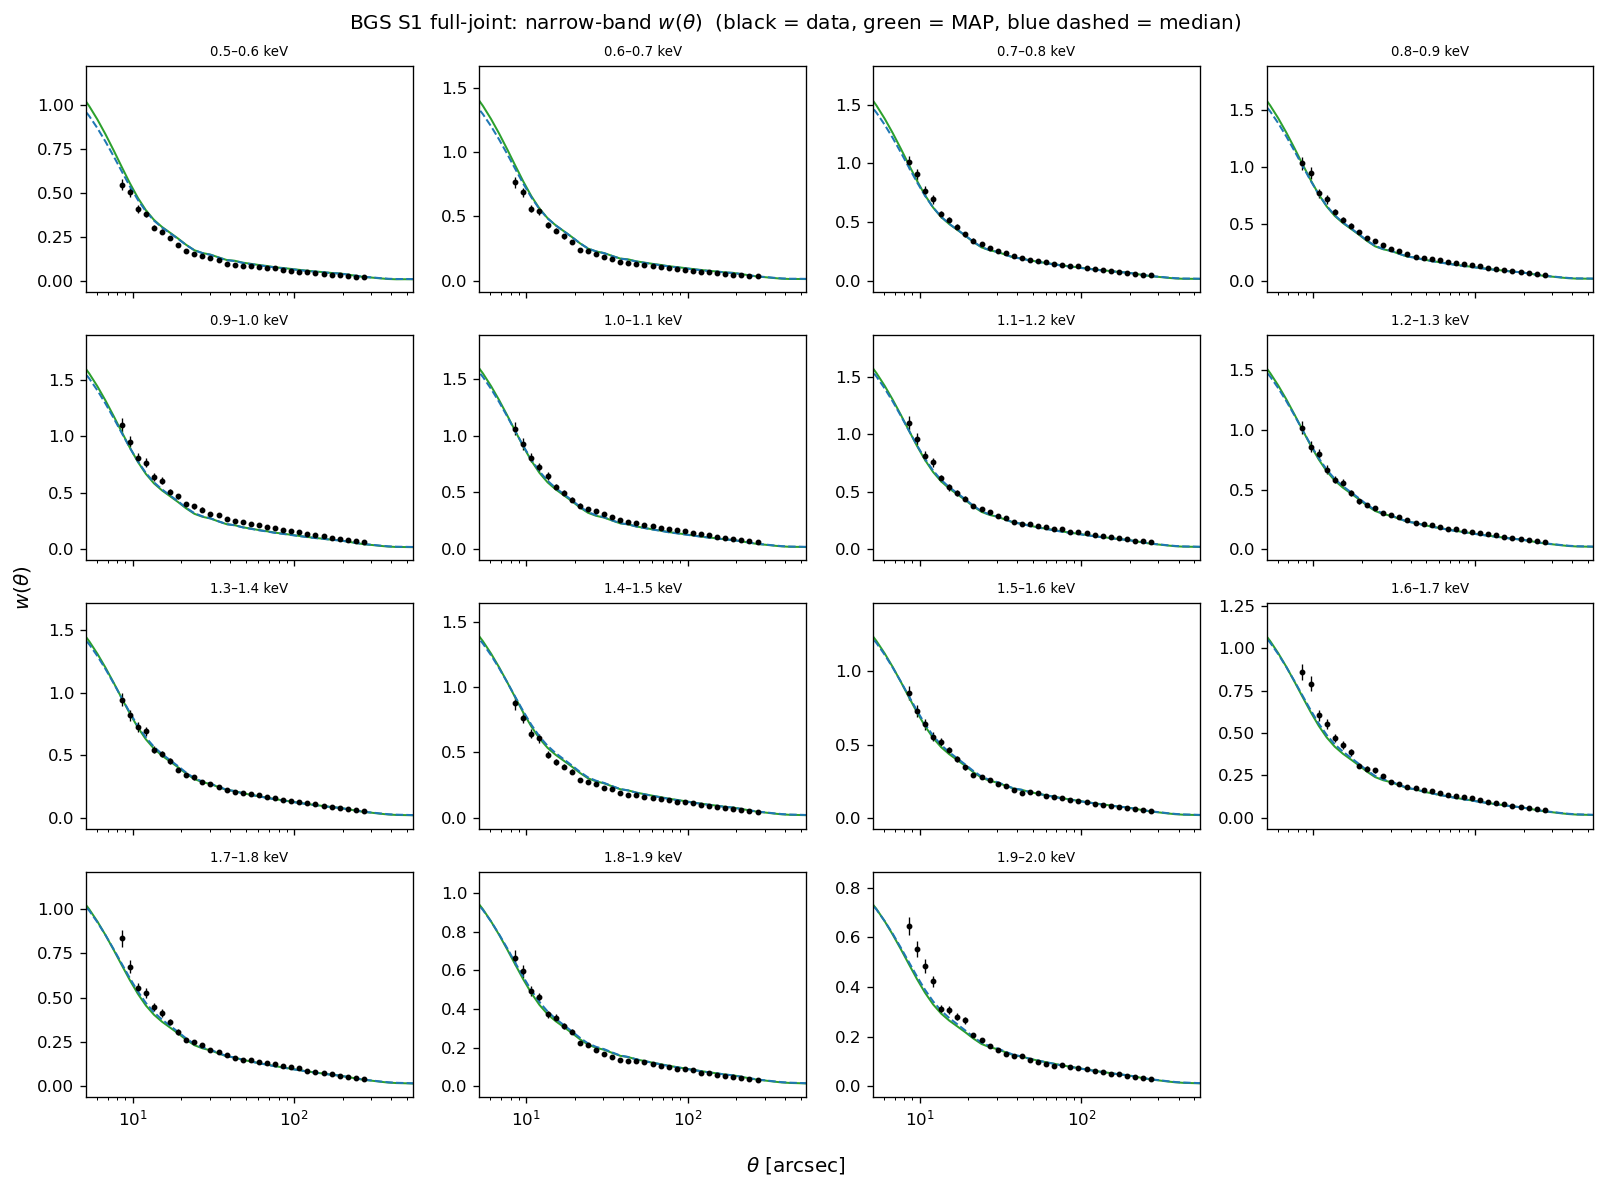
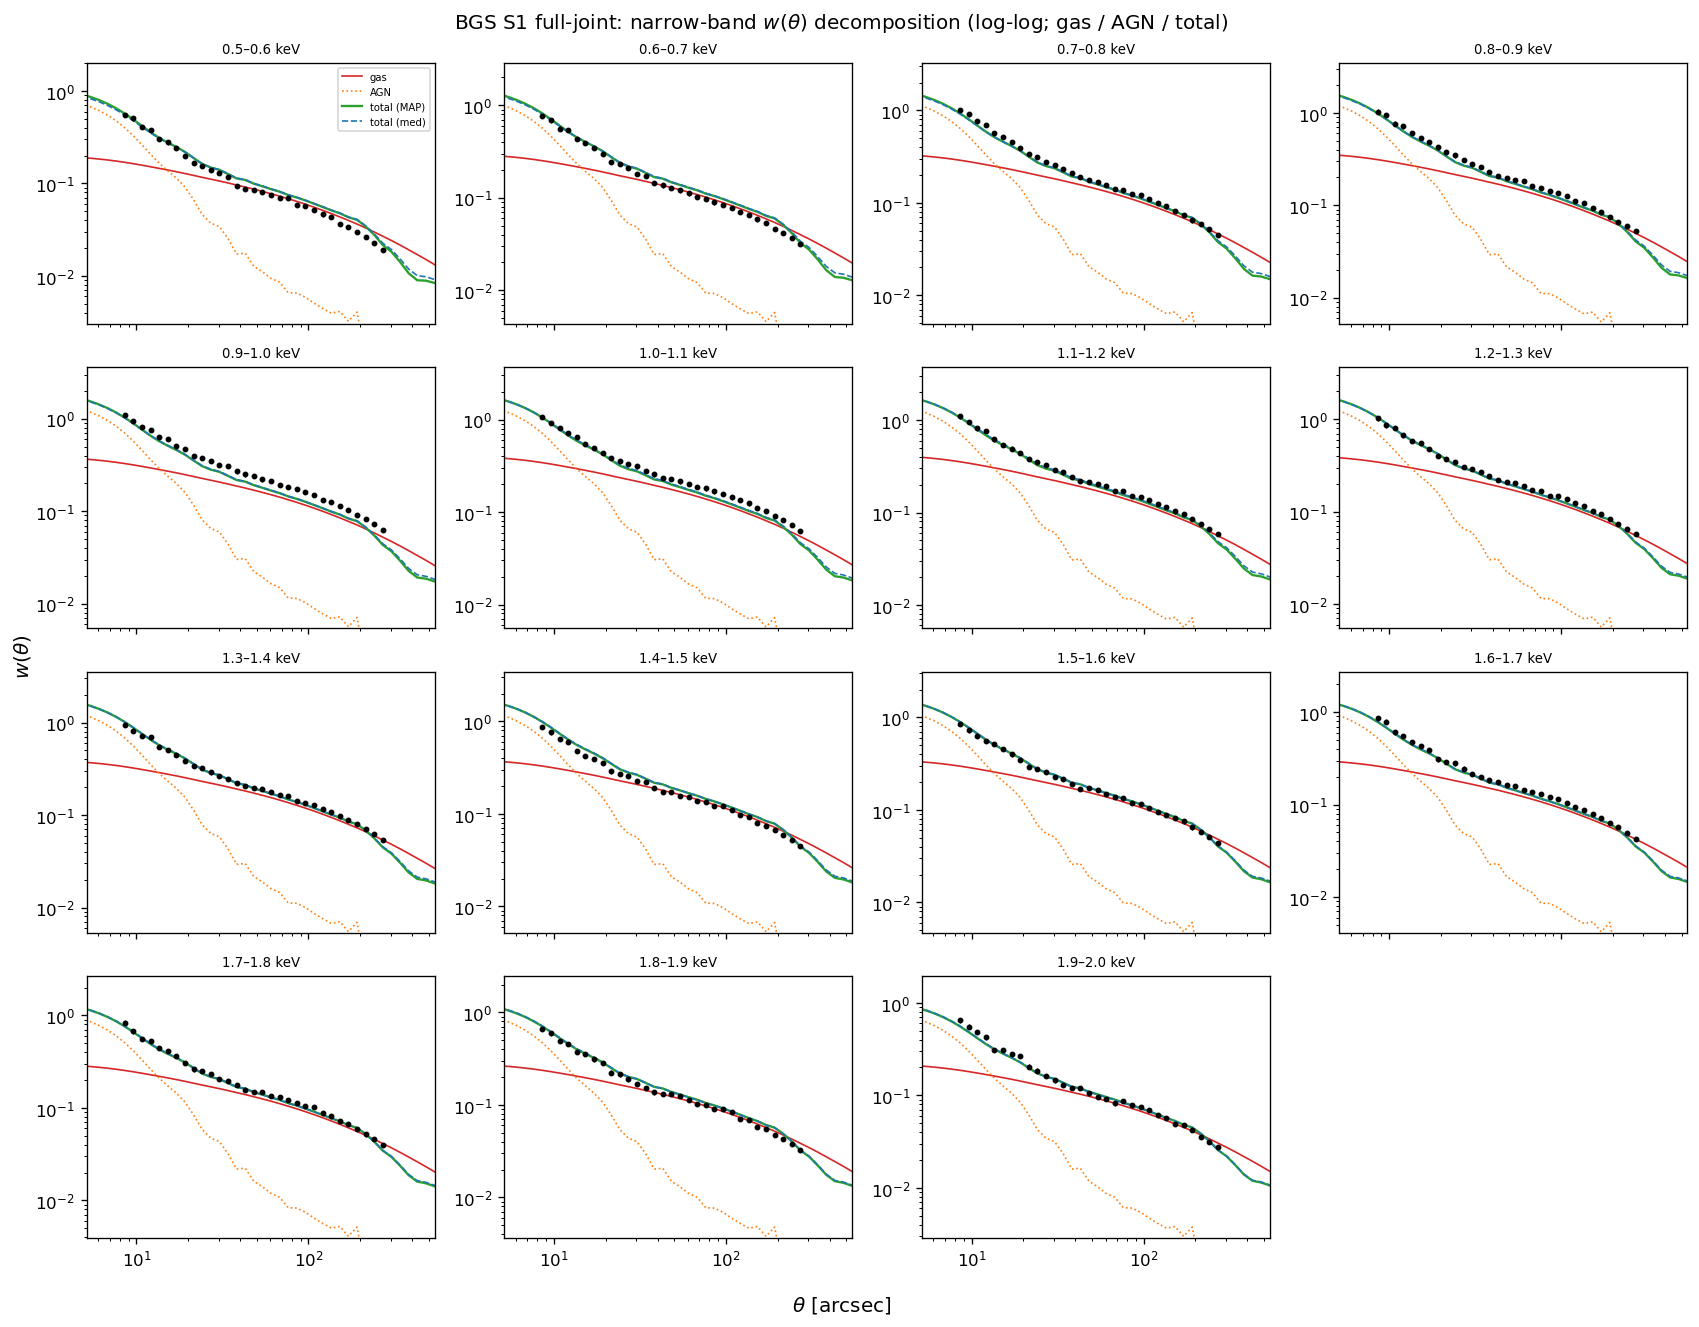
docs(bgs_full_joint): final config, band-model finding, decomposed figures
Update the page to the finalized fixed-ZM15 run (15 params incl. the free AGN
photon index agn_gamma; tight kt prior 0.05/0.04). Adds the "Why the AGN photon
index is free" section (the flat band-spectrum diagnostic and the Gamma-free fix)
and the AGN host stellar-mass function figure; refreshes the observables (1h/2h +
gas/AGN + bias +/-3sigma), log-log X-ray bands, gas scaling-relations, and corner
figures. Figures are from a representative chain; regenerate from the production
run with `plot_bgs_full_joint --docs`.

diff --git a/docs/bgs_full_joint.rst b/docs/bgs_full_joint.rst
@@ -24,15 +24,23 @@ shared halo-model engine (CAMB :math:`P(k)` + Tinker08 HMF + Zu & Mandelbaum
 
 * **Galaxies (ZM15).**  :math:`n_\mathrm{gal}` (SMF integral), projected
   clustering :math:`w_p(r_p)`, and excess surface density
-  :math:`\Delta\Sigma(r_p)` for DES/HSC/KIDS (:math:`r_p>2\,\mathrm{Mpc}/h`, with
-  a free central point mass).
+  :math:`\Delta\Sigma(r_p)` (with a free central point mass).
 * **Hot gas (X-ray).**  The 15 narrow 0.1-keV bands (0.5–2 keV) and the broad
   band of the galaxy × soft-X-ray cross-correlation (Comparat 2025), via the
   precomputed transfer-grid band model of :doc:`xray_joint_fit`.
-* **AGN (Powell).**  The X-ray luminosity function :math:`\phi(L_X)` at
-  :math:`z=0.1` and :math:`0.4` (Roster 2026) and the AGN halo bias
-  :math:`b(L_X)`, forward-modelled by
+* **AGN (Powell).**  The X-ray luminosity function :math:`\phi(L_X)` (Roster
+  2026) and the AGN halo bias :math:`b(L_X)`, forward-modelled by
   :class:`~hod_mod.agn.powell.PowellAGNModel`.
+
+**Data selection.**  The fitted data are trimmed to the most-robust points (all
+selections are ``fit_bgs_full_joint`` CLI options, recorded per run in
+``fit_config.json``):
+
+* lensing: only the **HSC** :math:`\Delta\Sigma` on :math:`2<r_p<8\,\mathrm{Mpc}/h`
+  (DES and KIDS dropped);
+* XLF: only the :math:`z=0.1` slice with :math:`\log_{10}L_X>41`;
+* AGN halo bias: only the **Comparat+2023** and **Krumpe+2015** points;
+* X-ray: the broad band **and** all 15 narrow bands are kept.
 
 **Two steps.**  The galaxy sector is expensive, so the ZM15 parameters are
 handled two ways (each has its own OAR job):
@@ -41,13 +49,13 @@ handled two ways (each has its own OAR job):
   :doc:`mass-bin posterior <bgs_zm15_joint_mcmc>` median, so the galaxy
   predictions that do not depend on the point mass are precomputed **once**; each
   likelihood evaluation is then :math:`\sim0.01\,\mathrm{s}` and the MCMC is fast.
-  **14 free parameters.**
+  **15 free parameters.**
 * **Step 3 — free ZM15**.  The 13 ZM15 parameters are additionally free with
   Gaussian priors from the mass-bin posterior (mean = median,
-  :math:`\sigma=(p_{84}-p_{16})/2`).  **27 free parameters**; the galaxy sector is
+  :math:`\sigma=(p_{84}-p_{16})/2`).  **28 free parameters**; the galaxy sector is
   recomputed every evaluation, so this is the heavier run.
 
-**Free parameters (Step 2, 14).**
+**Free parameters (Step 2, 15).**
 
 .. list-table::
    :header-rows: 1
@@ -63,8 +71,9 @@ handled two ways (each has its own OAR job):
      - flat / :math:`\mathcal N`
      - :math:`L_X`–:math:`M_{500c}` relation (normalisation, slope)
    * - ``kt_norm`` / ``kt_slope``
-     - flat / :math:`\mathcal N`
-     - :math:`k_BT`–:math:`M_{500c}` relation
+     - tight :math:`\mathcal N`
+     - :math:`k_BT`–:math:`M_{500c}` relation (:math:`\sigma=0.05/0.04` around the
+       observed 0.4/0.6 — see *Why the AGN index is free* below)
    * - ``p2`` / ``r_max``
      - flat
      - hot-gas density-profile shape (transfer grid)
@@ -74,6 +83,9 @@ handled two ways (each has its own OAR job):
    * - ``z_metal``
      - :math:`\mathcal N`
      - gas metallicity
+   * - ``agn_gamma``
+     - :math:`\mathcal N(1.8, 0.3)`
+     - AGN/continuum photon index — frees the band spectral shape (new)
    * - ``agn_mu_bh``
      - flat
      - :math:`M_{\rm BH}`–:math:`M_\star` normalisation
@@ -100,11 +112,15 @@ exactly where it left off.  The production Step-2 job uses 48 walkers,
    # 1. stage data + the ZM15 posterior + the apec cache to dahu (run locally)
    bash oarsub/rsync_data_to_dahu.sh
 
-   # 2. submit the fixed-ZM15 job (MAP then MCMC; a re-submit resumes the chain)
+   # 2. submit the fixed-ZM15 job (MAP then MCMC; a re-submit resumes the chain).
+   #    The job script applies the data selection + tight kT prior via CLI flags:
+   #      --esd-surveys HSC --esd-rp-max 8.0 --xlf-z 0.1 --xlf-lx-min 41.0
+   #      --agn-bias-refs Comparat23 Krumpe15 --kt-prior-sig 0.05 0.04
    oarsub --project pr-orphans -S ./oarsub/fit_bgs_full_joint_fixedzm15_mcmc.sh
 
    # 3. pull the run back, then plot (MAP + posterior-median overlays; --docs
-   #    writes the figures embedded below)
+   #    writes the figures embedded below).  The plotter reads fit_config.json so
+   #    the plotted data match the fit's selection automatically.
    rsync -avz DAHU:data/hod_mod_results/bgs_full_joint_fixedzm15/ \
        $HOD_MOD_RESULTS/bgs_full_joint_fixedzm15/
    JAX_PLATFORMS=cpu python -m hod_mod.scripts.fitting.plot_bgs_full_joint --docs
@@ -113,37 +129,109 @@ Data vs. MAP / posterior-median model
 -------------------------------------
 
 For every fitted observable, the figure shows the data with error bars, the
-**MAP** model (green) and the **posterior-median** model (blue dashed).
+**MAP** model (green) and the **posterior-median** model (blue dashed), each
+panel decomposed into its physical components.
 
 .. figure:: _images/bgs_full_joint_fixedzm15__observables.png
    :width: 100%
    :alt: Data vs MAP and posterior-median model for wp, ESD, XLF, AGN bias and the broad X-ray band.
 
-   Galaxy, AGN and broad-X-ray observables.  ``wp`` and ``ESD`` (DES/HSC/KIDS)
-   constrain the galaxy–halo connection (ZM15 fixed) and the central point mass;
-   ``XLF`` (:math:`z=0.1,\,0.4`) and ``AGN bias`` constrain the Powell AGN sector;
-   the broad :math:`w(\theta)` anchors the absolute hot-gas amplitude.
+   Galaxy, AGN and broad-X-ray observables.  ``wp`` and the HSC ``ESD``
+   (:math:`2<r_p<8`) are split into **1-halo / 2-halo** (ESD also the central
+   point mass); ``XLF`` (:math:`z=0.1`, :math:`\log_{10}L_X>41`) and ``AGN bias``
+   (Comparat+2023, Krumpe+2015) constrain the Powell AGN sector — the bias panel
+   shows the model :math:`\pm3\sigma` response in the host-mass normalisation
+   :math:`\mu_{\rm BH}`; the broad :math:`w(\theta)` (log-log) is split into
+   **gas** and **AGN**.
 
 .. figure:: _images/bgs_full_joint_fixedzm15__xray_bands.png
    :width: 100%
-   :alt: The 15 narrow 0.5-2 keV band w(theta) panels, data vs MAP and median models.
+   :alt: The 15 narrow 0.5-2 keV band w(theta) panels in log-log, decomposed into gas/AGN/total.
 
    The 15 narrow 0.1-keV bands of the galaxy × soft-X-ray cross-correlation
-   (0.5–2.0 keV).  The energy dependence of :math:`w(\theta)` encodes the gas
-   temperature (via the band-resolved cooling function) and the AGN contribution;
-   the 8 X-ray parameters are fit jointly across all bands.
+   (0.5–2.0 keV), in **log-log** with each panel decomposed into **gas / AGN /
+   total**.  The energy dependence of :math:`w(\theta)` is a gas-temperature
+   tracer (via the band-resolved cooling function); the AGN dominates
+   :math:`\theta\lesssim20''` and the gas the outer profile.  The 9 X-ray
+   parameters are fit jointly across all bands.
+
+Why the AGN photon index is free
+--------------------------------
+
+A per-band spectral diagnostic (``bandmodel_diagnostic.py``, staged with the run
+products) shows the observed cross-correlation band spectrum is **flat and
+featureless** — it lacks the Fe-L line peak at 0.7–1.2 keV that :math:`\sim1`-keV
+thermal gas would imprint, and it is nearly identical at all angular scales.
+Because APEC only reproduces a flat spectrum at :math:`k_BT\gtrsim8\,\mathrm{keV}`,
+a thermal-gas-only model is driven to an unphysically hot :math:`k_BT`, and even a
+tight :math:`k_BT`-:math:`M` prior cannot hold it (the band likelihood overrides
+it at :math:`\sim3.6\sigma`).
+
+The fix is to give the **continuum** its own spectral degree of freedom: the AGN
+photon index ``agn_gamma`` (fixed at :math:`\Gamma=1.8`) is freed.  The AGN then
+absorbs the flat spectral shape (:math:`\Gamma` settles hard, :math:`\approx1.5`),
+the band :math:`\chi^2` drops by :math:`\sim210`, and with the tight
+:math:`k_BT`-prior the **posterior** :math:`k_BT`-:math:`M` relation tracks the
+resolved-cluster scaling instead of soaring an order of magnitude above it.  A
+residual remains: even :math:`\Gamma`-free, the bands cannot fully pin the
+:math:`k_BT` *normalisation* (the density–temperature–continuum degeneracy is not
+fully broken by soft-X-ray emission alone) — the tSZ (pressure-weighted) cross is
+the natural next constraint.
+
+Hot-gas scaling relations and radial profiles
+---------------------------------------------
+
+The X-ray sector is parametrised by explicit :math:`L_X`–:math:`M_{500c}` and
+:math:`k_BT`–:math:`M_{500c}` power laws plus a density-profile shape
+(:math:`p_2`, :math:`r_{\max}`).  The top row shows those recovered scaling
+relations against cluster/group literature; the bottom row shows the DPM radial
+profiles whose density normalisation is calibrated to the fit's own
+:math:`L_X`–:math:`M` relation.
+
+.. figure:: _images/bgs_full_joint_fixedzm15__gas.png
+   :width: 100%
+   :alt: Hot-gas L_X-M, kT-M and L_X-kT scaling relations and n_e, T, P_e radial profiles.
+
+   **Top:** :math:`L_X`–:math:`M_{500c}`, :math:`k_BT`–:math:`M_{500c}` and
+   :math:`L_X`–:math:`k_BT` — the MAP (green) and posterior-median (blue) fit
+   relations with the 68 % posterior band, over-plotted with Lovisari+2020 and
+   Bulbul+2018 cluster/group samples and the Lovisari+2020 / Comparat+2025
+   (GAS.py) relations.  With ``agn_gamma`` free (previous section) the posterior
+   :math:`k_BT`–:math:`M_{500c}` **tracks the Lovisari/Bulbul cluster cloud**
+   rather than sitting an order of magnitude above it; the slope is physical.
+   **Bottom:** electron density :math:`n_e(r)`, temperature :math:`T(r)=P_e/n_e`
+   and electron pressure :math:`P_e(r)` at
+   :math:`M_{200}=10^{13,14,15}\,M_\odot/h` (dotted = Arnaud+2010 pressure), with
+   :math:`n_e` calibrated to the fit's :math:`L_X`–:math:`M`.
+
+AGN host stellar-mass function
+------------------------------
+
+A derived prediction: the stellar-mass function of AGN host galaxies above a
+hard-X-ray luminosity threshold, built from the Powell central-AGN occupation
+:math:`N_{\rm AGN}(>L_X\,|\,M_{\rm halo})` weighted by the HMF and mapped into
+stellar mass through the Girelli+2020 SHMR (with scatter).
+
+.. figure:: _images/bgs_full_joint_fixedzm15__agn_host_smf.png
+   :width: 75%
+   :alt: Predicted stellar-mass function of AGN host galaxies above L_X thresholds.
+
+   AGN host stellar-mass function for two hard-band luminosity thresholds
+   (model, centrals only).  Intended for comparison with Bongiorno+2016 — those
+   data are not yet staged locally, so this is currently the model prediction.
 
 Parameter posteriors
 --------------------
 
 .. figure:: _images/bgs_full_joint_fixedzm15__corner.png
    :width: 95%
-   :alt: Corner plot of the 14 free parameters with the MAP overlaid in green.
+   :alt: Corner plot of the 15 free parameters with the MAP overlaid in green.
 
-   The 14-parameter posterior (green lines = MAP).  The X-ray relation
-   parameters, the AGN ERDF parameters and the ESD point mass are recovered
-   jointly; the ``lx_norm``–``log10DC`` and ERDF slope directions show the
-   expected gas-vs-AGN and shape degeneracies.
+   The 15-parameter posterior (green lines = MAP).  The X-ray relation
+   parameters (incl. the free ``agn_gamma``), the AGN ERDF parameters and the ESD
+   point mass are recovered jointly; the ``lx_norm``–``log10DC`` and
+   ``agn_gamma``–``kt_norm`` directions show the expected gas-vs-AGN /
+   continuum-vs-temperature degeneracies.
 
 Where the outputs are stored
 ----------------------------
@@ -157,6 +245,9 @@ all-params Step-3 run uses ``bgs_full_joint_allparams/``):
 
    * - File
      - Content
+   * - ``fit_config.json``
+     - the exact data selection (surveys, cuts, references) — read back by the
+       plotter so the figures match the fit
    * - ``map_result.json``
      - MAP parameters, :math:`\chi^2`/dof, per-sector breakdown, optimiser status
        (written as soon as MAP finishes; its presence makes a re-submit skip MAP)
@@ -168,6 +259,6 @@ all-params Step-3 run uses ``bgs_full_joint_allparams/``):
    * - ``posterior_summary.json``
      - per-parameter median and :math:`\pm1\sigma` (16/50/84)
 
-The three figures above are produced by
+The figures above are produced by
 :mod:`hod_mod.scripts.fitting.plot_bgs_full_joint`; ``--docs`` writes them into
-``docs/_images/bgs_full_joint_fixedzm15__{observables,xray_bands,corner}.png``.
+``docs/_images/bgs_full_joint_fixedzm15__{observables,xray_bands,gas,agn_host_smf,corner}.png``.
